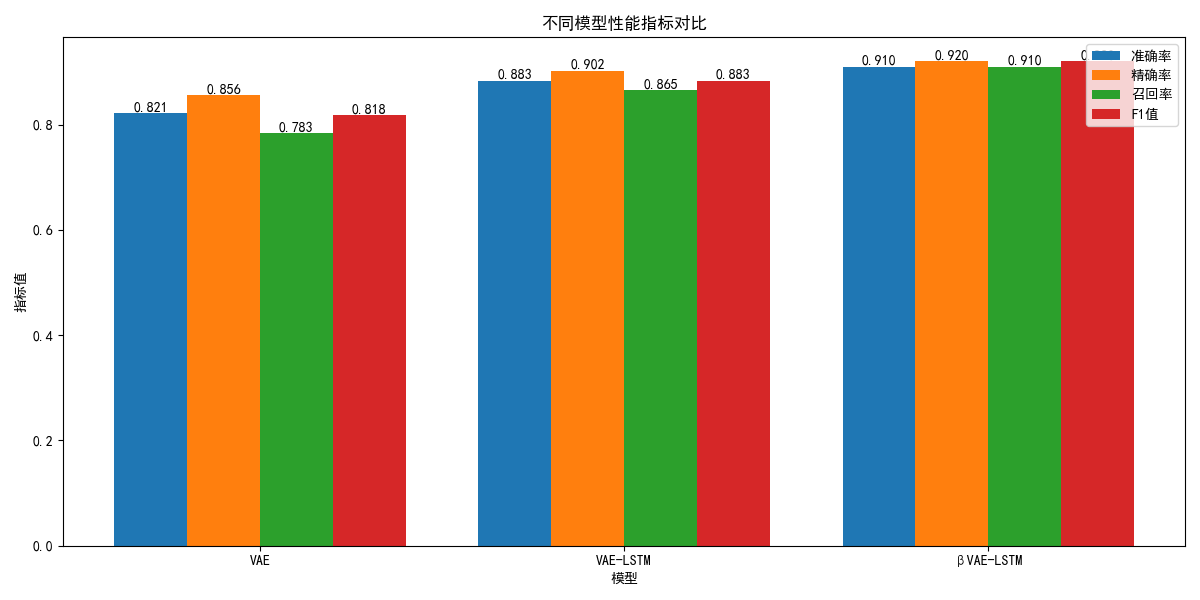
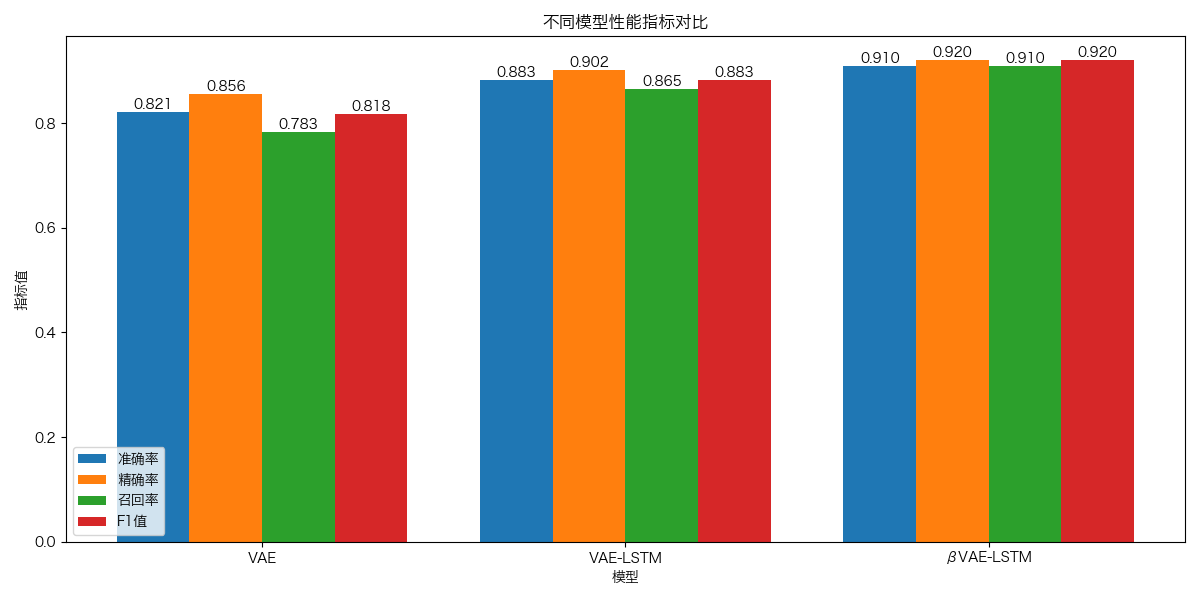
7

diff --git a/images/draw6.py b/images/draw6.py
@@ -2,7 +2,7 @@ import matplotlib
 import matplotlib.pyplot as plt
 import numpy as np
 
-plt.rcParams['font.sans-serif'] = ['SimHei']
+plt.rcParams['font.sans-serif'] = ['Hiragino Sans GB']
 matplotlib.rcParams['axes.unicode_minus'] = False
 
 # 模型数据
